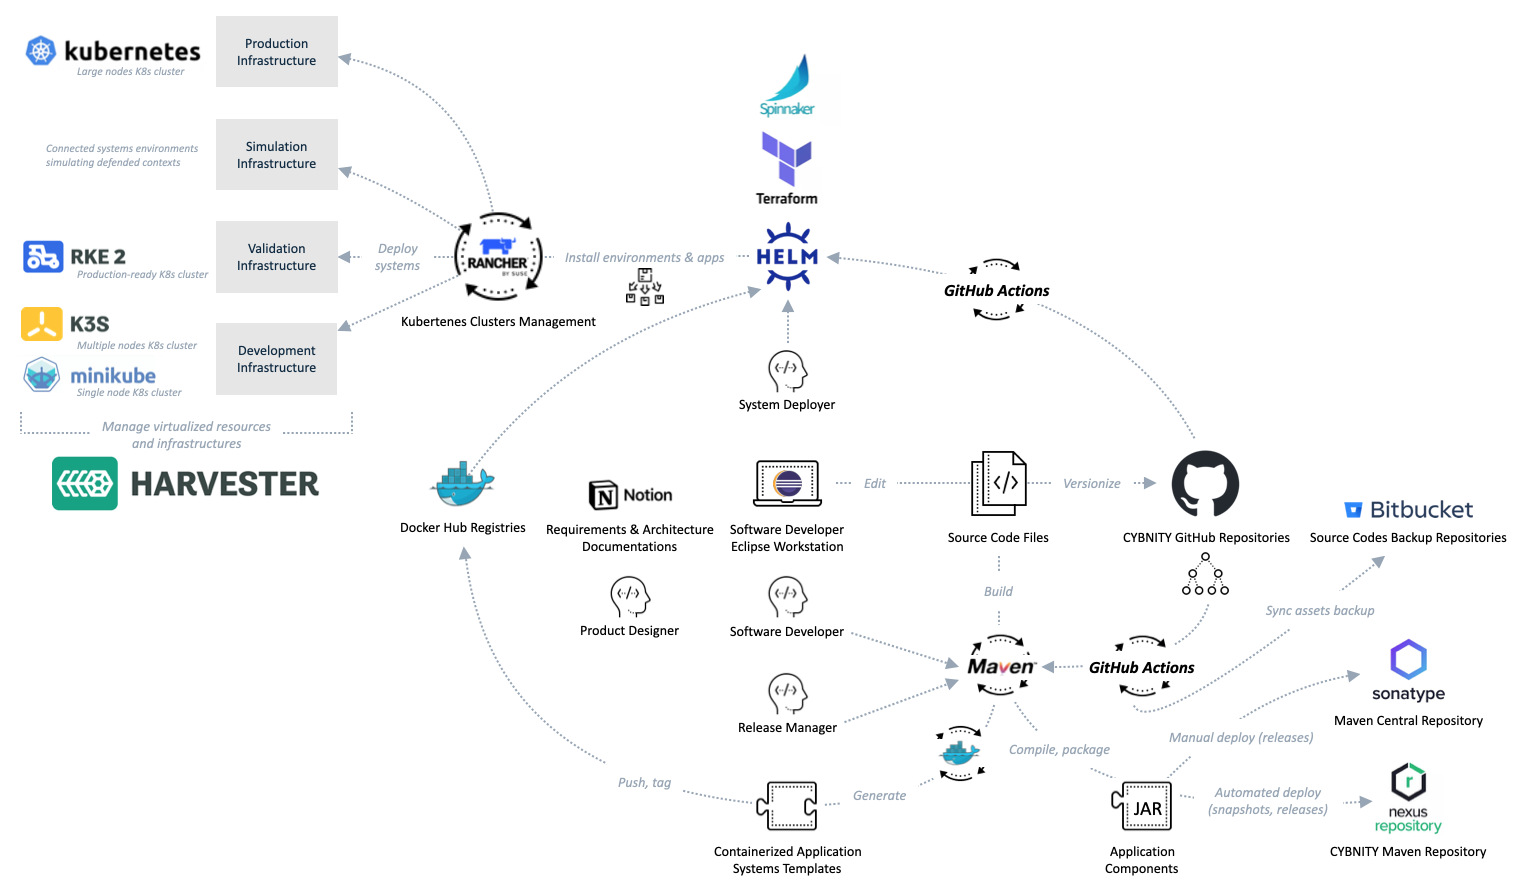
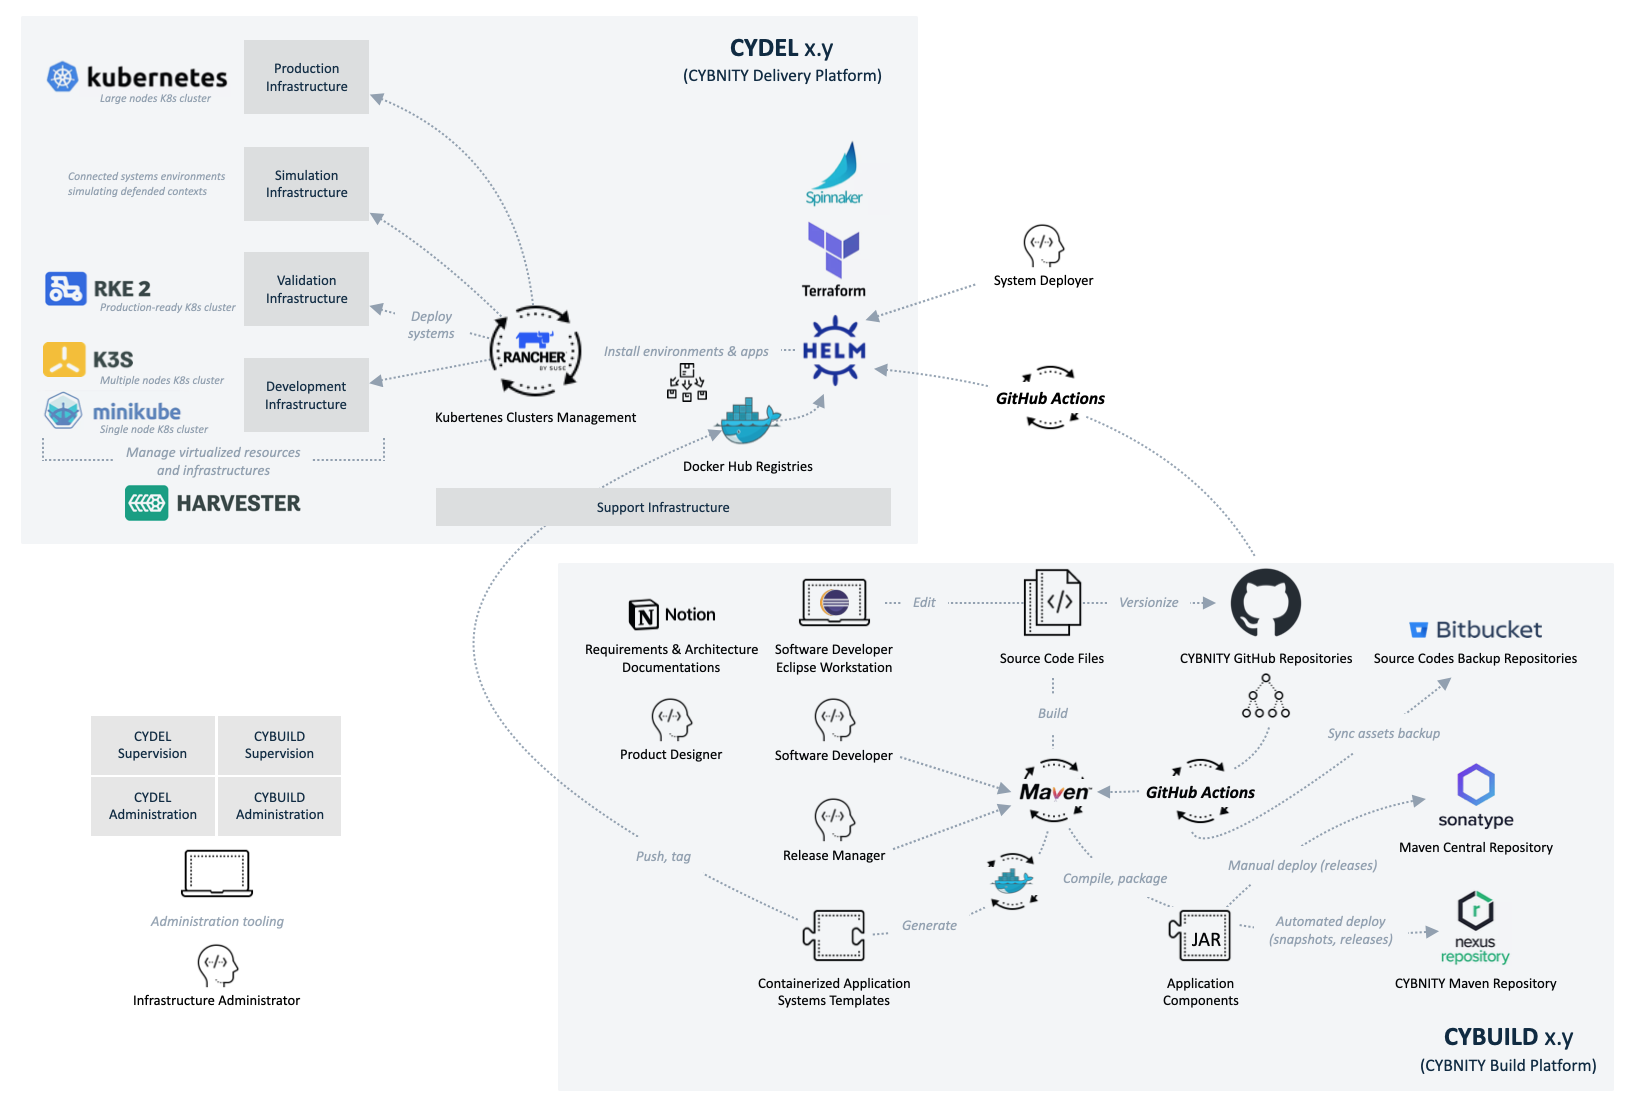
add initial infrastructure description (CYDEL 01)

diff --git a/implementations-line/systems/technical-infrastructure/CYDEL01-cybsup01.md b/implementations-line/systems/technical-infrastructure/CYDEL01-cybsup01.md
@@ -1,0 +1,233 @@
+## PURPOSE
+This technical documentation presents the guidelines (e.g server installation instructions, configuration of system elements) allowing preparation, configuration and maintenant in operational state of the primary support server.
+
+The services provided by the CYBSUP01 server are focus on:
+- primary server of the Support Environment cluster supporting all the CYDEL version's tools
+- management of other environments (e.g other Kubernetes clusters)
+- management of application systems deployment (e.g continuous delivery chain) on other environments (e.g dev, test...)
+
+# HARDWARE LAYER
+
+# NETWORKING LAYER
+
+# OPERATING SYSTEM LAYER
+
+## Ubuntu Linux Server
+- Installation of Ubuntu LTS server version (e.g from bootable USB stick)
+  - define boot and OS dedicated partitions for OS directories and mounting points
+  - define independent datadisk dedicated to the K8S resources storage with a mounting point at `/srv`
+
+- Swap (all nodes) disabling (change consistent after a reboot with fstb file modification) to enhance Kubernetes performance via command:
+
+```
+  sudo swapoff -a
+  #sudo sed -i '/ swap / s/^\(.*\)$/#\1/g' /etc/fstab
+  sudo sed -i '/ swap / s/^/#/' /etc/fstab
+```
+
+- Add Kernel parameters (all nodes)
+  - to load the required modules on all nodes (set up IP bridge for nodes to communicate over the network) via command:
+```
+  sudo tee /etc/modules-load.d/containerd.conf <<EOF
+  overlay
+  br_netfilter
+  EOF
+  sudo modprobe overlay
+  sudo modprobe br_netfilter
+```
+
+  - configure critical kernel parameters for Kubernetes via command:
+```
+  sudo tee /etc/sysctl.d/kubernetes.conf <<EOF
+  net.bridge.bridge-nf-call-ip6tables = 1
+  net.bridge.bridge-nf-call-iptables = 1
+  net.ipv4.ip_forward = 1
+  EOF
+```
+
+  - reload the changes via command `sudo sysctl --system`
+
+- AppArmor configuration (https://discourse.ubuntu.com/t/ubuntu-24-04-lts-noble-numbat-release-notes/39890#security-improvements)
+
+- server hostname change
+  - change default server's hostname defined during the standard SUSE installation by another one according to the server role (e.g "cybsup01" about CYBNITY Support's server 1) via command line `sudo hostnamectl set-hostname cybsup01`
+
+  - to make change without closing the terminal via command `exec bash`
+
+- update of /etc/hosts file check (e.g DHCP mode from network system) or static ip address
+  Ensure your system can resolve its hostname by updating the /etc/hosts file with the IP address and the new hostname via command:
+```
+  sudo vi /etc/hosts
+
+  # Add a line: server-desired-hostname
+```
+
+- Ubuntu version update and upgrade via command line:
+```
+  sudo apt-get update && sudo apt-get upgrade -y
+  sudo apt update && sudo apt -y full-upgrade
+
+```
+
+## Intel 10-Gigabit X540-AT2 card drivers
+Only to install when network card were not detected/configured during the origin Linux installation.
+
+- download drivers files via command lines:
+```
+   curl -O https://downloadmirror.intel.com/832293/ixgbe-5.21.5.tar.gz
+   curl -O https://downloadmirror.intel.com/832293/intel-public-key-ixgbe-ko.zip
+   curl -O https://downloadmirror.intel.com/832296/ixgbevf-4.20.5.tar.gz
+   curl -O https://downloadmirror.intel.com/832296/intel-public-key-ixgbevf-ko.zip
+```
+
+- execute driver installation via command lines:
+```
+   transactional-update -i pkg install ixgbe-5.21.5.tar.gz
+   transactional-update -i pkg install intel-public-key-ixgbe-ko.zip
+```
+- reboot system
+- check visibility of detected network cards via command `ip a`
+
+# VIRTUALIZATION LAYER
+
+## Helm
+- install Helm stable version via command:
+```
+  sudo snap install helm --classic
+```
+
+## RKE2 Kubernetes distribution
+- create tar installation directory via command:
+```
+  mkdir /opt/rke2
+```
+
+- set environment variable to use during RKE2 script installation execution via command:
+```
+  export INSTALL_RKE2_METHOD="tar"
+  export INSTALL_RKE2_CHANNEL="stable"
+  export INSTALL_RKE2_TYPE="server"
+  export INSTALL_RKE2_TAR_PREFIX="/opt/rke2"
+```
+
+- execute RKE2 installation script via command:
+```
+  curl -sfL https://get.rke2.io |  sh -
+```
+
+- add permanent path to rke2 binary (/opt/rke2/bin) and add it to PATH into file `/etc/environment`
+
+- enable and start the rke2-server service via commands:
+```
+  sudo systemctl enable rke2-server.service
+  sudo systemctl start rke2-server.service
+```
+
+- create symbolic link to RKE2 tools (kubectl, kubelet, crictl, ctr) via commands:
+```
+  sudo ln -s /var/lib/rancher/rke2/bin/kubectl /usr/local/bin/kubectl
+  sudo ln -s /var/lib/rancher/rke2/bin/kubelet /usr/local/bin/kubelet
+  sudo ln -s /var/lib/rancher/rke2/bin/crictl /usr/local/bin/crictl
+  sudo ln -s /var/lib/rancher/rke2/bin/ctr /usr/local/bin/ctr
+```
+
+- create symbolic link to the created kubeconfig file via commands:
+```
+  mkdir -p ~/.kube
+  sudo ln -s /etc/rancher/rke2/rke2.yaml ~/.kube/config
+```
+
+- verify the server node registration via command line:
+```
+  kubectl get nodes -o wide
+```
+
+- copy KUBECONFIG for cluster access (https://docs.rke2.io/cluster_access documentation)
+
+- create conig.yaml (https://docs.rke2.io/install/configuration)
+
+- CIS Hardening
+  - Kernel parameters (https://docs.rke2.io/security/hardening_guide#kernel-parameters)
+  ```
+  sudo cp -f /usr/local/share/rke2/rke2-cis-sysctl.conf /etc/sysctl.d/60-rke2-cis.conf
+  sudo systemctl restart systemd-sysctl
+  ```
+
+- Containerd registry
+  - create registries.yaml into /etc/rancher/rke2/ (as documented at https://docs.rke2.io/install/containerd_registry_configuration) usable by the server (e.g cybnity docker registry) including Personal Access Token used for private registries authentication
+
+- Snapshot configuration
+  - add configuration lines in `/etc/rancher/rke2/config.yaml`:
+  ```
+  # Database configuration
+  # active snapshots
+  etcd-disable-snapshots: false
+  # snapshot interval time every 5 hours
+  etcd-snapshot-schedule-cron: "0*/5 * * *"
+  etcd-snapshot-retention: 3
+  ```
+
+  - restart service via command:
+  `systemctl start rke2-server`
+
+## Kubernetes resources
+
+### Base data storage resource (Persistent Volume)
+- create a sub-directory of `/srv` dedicated to the Kubernetes resources (e.g Persistent Volumes) via commands:
+  ```
+  mkdir /srv/k8s
+  mkdir /srv/k8s/pvc
+  ```
+
+- __from root $HOME directory__, create a symbolic link simplying the identification of K8S data storage base path via command:
+  ```
+  # Allow direct access to RKE2 dedicated disk area reserved for K8S data (e.g under pvc folder)
+  sudo ln -s /srv/k8s/pvc .kube/pvc
+  ```
+
+- create new PV resource file (automatic applied resource during RKE2 start) regarding base persistent volume via command:
+  `vi /var/lib/rancher/rke2/server/manifests/rke2-base-pv.yaml`
+
+  - file containing (see for help [best practices for PV](https://www.loft.sh/blog/kubernetes-persistent-volumes-examples-and-best-practices)) according to storage capacity available:
+  ```
+  apiVersion: v1
+  kind: PersistentVolume
+  metadata:
+    name: base-pv
+  spec:
+    capacity:
+      storage: 900Gi
+    volumeMode: Filesystem
+    accessModes:
+      - ReadWriteOnce
+    persistentVolumeReclaimPolicy: Retain
+    storageClassName: standard
+    hostPath:
+      path: "/srv/k8s/pvc"
+  ```
+
+  - check the automatically created resource via command: `kubectl get pv`
+
+# INFRASTRUCTURE SERVICES
+
+## MONITORING & LOGGING
+
+## SECURITY
+
+# APPLICATION SERVICES
+
+## Helm repositories
+- add needed helm charts to node repository list via commands:
+```
+  helm repo add rancher-stable https://releases.rancher.com/server-charts/stable
+  helm repo add jetstack https://charts.jetstack.io
+  helm repo add cybnity https://cybnity.github.io/iac-helm-charts
+```
+
+## KUBERNETES MANAGEMENT (Rancher)
+
+## SYSTEMS CONTINOUS DELIVERY (Spinnaker)
+
+
+#
+[Back To Home](CYDEL01.md)

diff --git a/implementations-line/systems/technical-infrastructure/CYDEL01.md b/implementations-line/systems/technical-infrastructure/CYDEL01.md
@@ -1,0 +1,39 @@
+## PURPOSE
+Some infrastructure technical systems are deployed by CYBNITY project as dedicated to "Build and Delivery activities" relative to CYBNITY software suite.
+
+Each version of infrastructure is a set of components that can be see as a template of support resources which shall be installed by any company that would like:
+- to develop or to extend CYBNITY software suite in an autonomous way onto their servers
+- to test the CYBNITY software modules allowing to customize or to optimize their performance according to a company's needs
+- to deliver configured systems, operational applications and/or support services
+- to provide a production environment to final users (e.g a company's security team) in a SaaS approach or into a on-premise infrastructure
+
+This documentation present an integrated infrastructures version of CYBUILD (CYBNITY Build Platform) and CYDEL (CYBNITY Delivery Platform) implemented and deployed as the __CYBFAC Version 01__ (CYBNITY Factory).
+
+See here mode detail about the [standardized software factory model](../../../docs/README.md).
+
+# INFRASTRUCTURES
+See here the model of physical resources installed by CYBNITY to support the project's modules build and delivery, with ability to install and operate technical activities (local or centralized development, test in continuous integration approach, performance evaluation, demonstration of CYBNITY software suite version to partners, and basic production for small companies).
+
+![image](CYDEL-01.png)
+
+For more detail about technical and resources pre-required to support by this type of resources infrastructure, consult the [system and tools prerequisites documentation](../systems-and-tools-prerequisites.md).
+
+# COMPONENTS & GUIDELINES
+Technical documentations are available to present in detail the administration procedures that allow to install and to manage the __infrastructures elements involved__ into CYDEL 01.
+
+The configuration instructions are helping to deploy and to manage the systems (e.g hardware, virtualized components, tooling, network) for help the system deployer and/or infrastructure administrator.
+
+## SUPPORT INFRASTRUCTURE
+This area of technical components and/or services are dedicated to support the other environments as tools (e.g Continuous Delivery of application components on environment) and shared services (e.g virtualization systems and containers management):
+- [CYDEL 01 - Support primary server](CYDEL01-cybsup01.md)
+
+## DEVELOPMENT INFRASTRUCTURE
+
+## VALIDATION INFRASTRUCTURE
+
+## SIMULATION INFRASTRUCTURE
+
+## PRODUCTION INFRASTRUCTURE
+
+#
+[Back To Home](../README.md)

diff --git a/implementations-line/systems/technical-infrastructure/CYDEL02.md b/implementations-line/systems/technical-infrastructure/CYDEL02.md
@@ -1,13 +1,20 @@
 ## PURPOSE
-Some infrastructure technical systems are deployed by CYBNITY project as dedicated to "Build activities" relative to CYBNITY software suite, and can be see as a template of support resources which shall be installed by any company that would like:
+Some infrastructure technical systems are deployed by CYBNITY project as dedicated to "Build and Delivery activities" relative to CYBNITY software suite.
+
+Each version of infrastructure is a set of components that can be see as a template of support resources which shall be installed by any company that would like:
 - to develop or to extend CYBNITY software suite in an autonomous way onto their servers
 - to test the CYBNITY software modules allowing to customize or to optimize their performance according to a company's needs
+- to deliver configured systems, operational applications and/or support services
 - to provide a production environment to final users (e.g a company's security team) in a SaaS approach or into a on-premise infrastructure
 
-# CYBNITY BUILD & DELIVERY INFRASTRUCTURES
+This documentation present a future integrated infrastructures version of CYBUILD (CYBNITY Build Platform) and CYDEL (CYBNITY Delivery Platform) implemented and deployed as the __CYBFAC Version 02__ (CYBNITY Factory).
+
+See here mode detail about the [standardized software factory model](../../../docs/README.md).
+
+# INFRASTRUCTURES
 See here the model of physical resources installed by CYBNITY to support the project's modules build and delivery, with ability to install and operate technical activities (local or centralized development, test in continuous integration approach, performance evaluation, demonstration of CYBNITY software suite version to partners, and basic production for small companies).
 
-![image](CYBNITY_build_and_delivery_infrastructures.png)
+![image](CYDEL-02.png)
 
 For more detail about technical and resources pre-required to support by this type of resources infrastructure, consult the [system and tools prerequisites documentation](../systems-and-tools-prerequisites.md).
 

diff --git a/implementations-line/systems/README.md b/implementations-line/systems/README.md
@@ -159,7 +159,12 @@ examples
 # RESOURCES INFRASTRUCTURE
 Several support resources are installed and provided by CYBNITY for allow deployment of environment modules during the build activities.
 
-See the __example of harware and virtualized systems__ as [support infrastructure implemented by CYBNITY project](technical-infrastructure/README.md), that can be considerated like an example for companies which would like to create a resources infrastructure supporting development of CYBNITY extension, or test/optimization of CYBNITY software suite versions, and/or providing of production environment to final users (e.g a company's security team; or a provider of managed platform as SaaS offer to other companies' security teams).
+
+## CYDEL 01 (current)
+See the __implemented harware and virtualized systems__ as [implementation infrastructure deployed by CYBNITY project](technical-infrastructure/CYDEL01.md) to support the current CYBNITY open source project.
+
+## CYDEL 02 (future)
+See the __example of harware and virtualized systems__ as [implementation infrastructure model](technical-infrastructure/CYDEL02.md), that can be considerated like an example for companies which would like to create a resources infrastructure supporting development of CYBNITY extension, or test/optimization of CYBNITY software suite versions, and/or providing of production environment to final users (e.g a company's security team; or a provider of managed platform as SaaS offer to other companies' security teams).
 
 #
 [Back To Home](../README.md)
